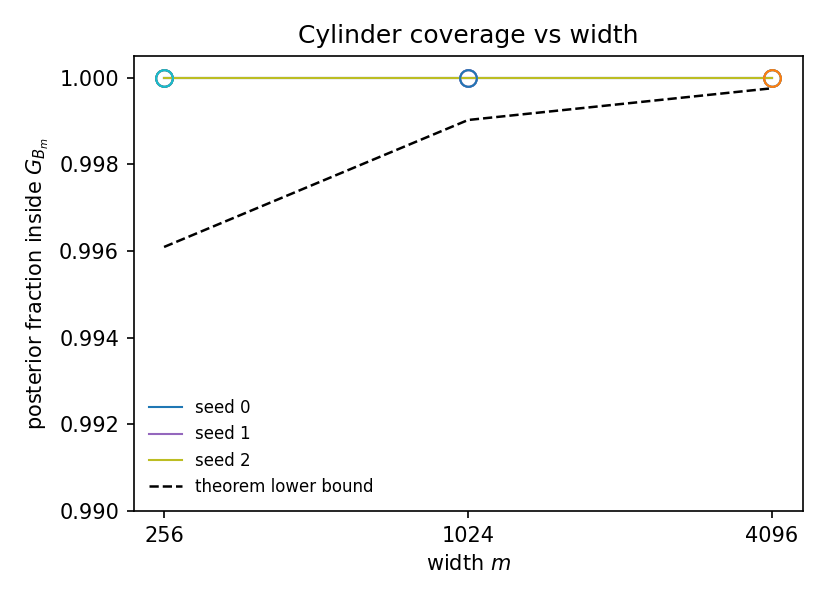
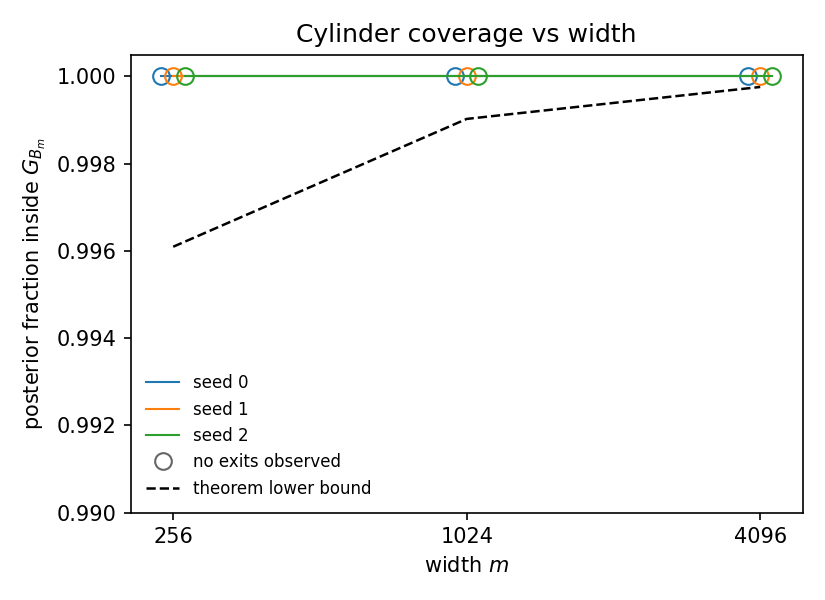
Fig 1: fixed per-seed colors and dodge overlapping seeds

diff --git a/scripts/05_make_figures.py b/scripts/05_make_figures.py
@@ -25,21 +25,27 @@ def fig1_coverage(artifacts: Path, out: Path) -> None:
     df = pd.read_csv(path)
     fig, ax = plt.subplots(figsize=(5.5, 4.0))
     widths = sorted(df["m"].unique())
-    for seed, g in df.groupby("seed"):
-        g = g.sort_values("m")
+    seeds = sorted(df["seed"].unique())
+    for i, seed in enumerate(seeds):
+        g = df[df["seed"] == seed].sort_values("m")
+        color = f"C{i}"
+        # Seeds often coincide exactly (e.g. all at 1.0); dodge along log2(m) so each is visible.
+        x = g["m"].to_numpy(dtype=float) * 2.0 ** (0.08 * (i - (len(seeds) - 1) / 2))
         y = g["coverage"].to_numpy()
-        x = g["m"].to_numpy()
         all_inside = g["all_inside"].astype(bool).to_numpy()
-        ax.plot(x, y, "-", lw=1.0, label=f"seed {seed}")
+        ax.plot(x, y, "-", lw=1.0, color=color, label=f"seed {seed}")
         for xi, yi, inside, mcse_ok, mcse in zip(
             x, y, all_inside, g["mcse_estimable"], g["mcse"]
         ):
             if inside:
-                ax.plot(xi, yi, "o", mfc="none", mec="C0" if seed == 0 else None, ms=8)
+                ax.plot(xi, yi, "o", mfc="none", mec=color, ms=8)
             else:
-                ax.plot(xi, yi, "o", ms=6)
+                ax.plot(xi, yi, "o", color=color, ms=6)
             if bool(mcse_ok) and pd.notna(mcse) and mcse != "":
-                ax.errorbar(xi, yi, yerr=float(mcse), fmt="none", capsize=3, elinewidth=0.8)
+                ax.errorbar(
+                    xi, yi, yerr=float(mcse), fmt="none", ecolor=color, capsize=3, elinewidth=0.8
+                )
+    ax.plot([], [], "o", mfc="none", mec="0.4", ms=8, ls="none", label="no exits observed")
     # theorem floor
     m_grid = np.array(widths, dtype=float)
     ax.plot(m_grid, 1.0 - 1.0 / m_grid, "k--", lw=1.2, label="theorem lower bound")
